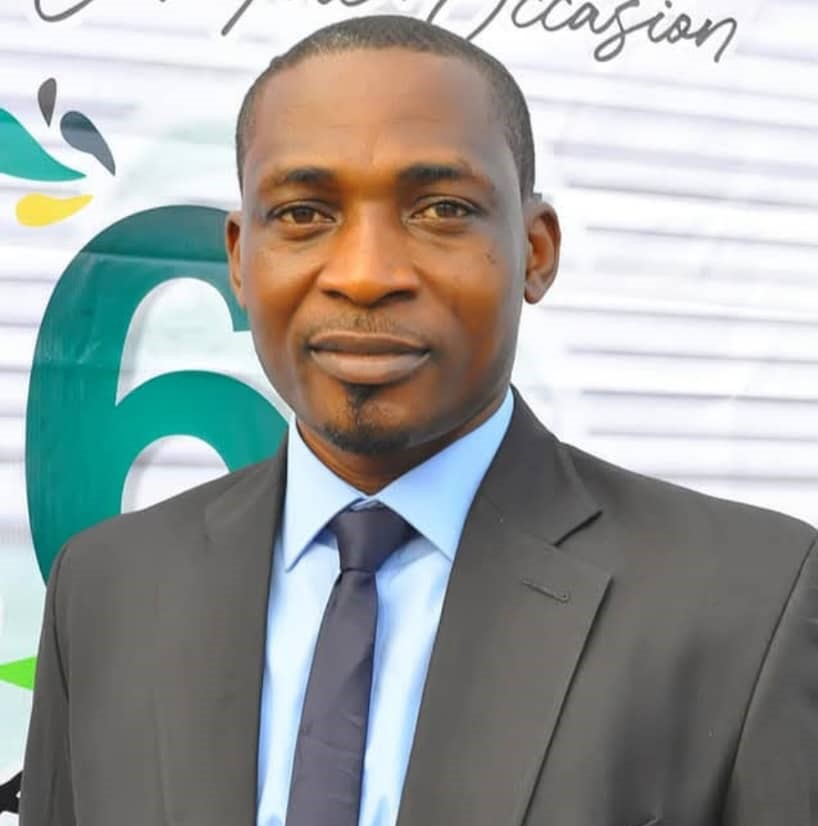
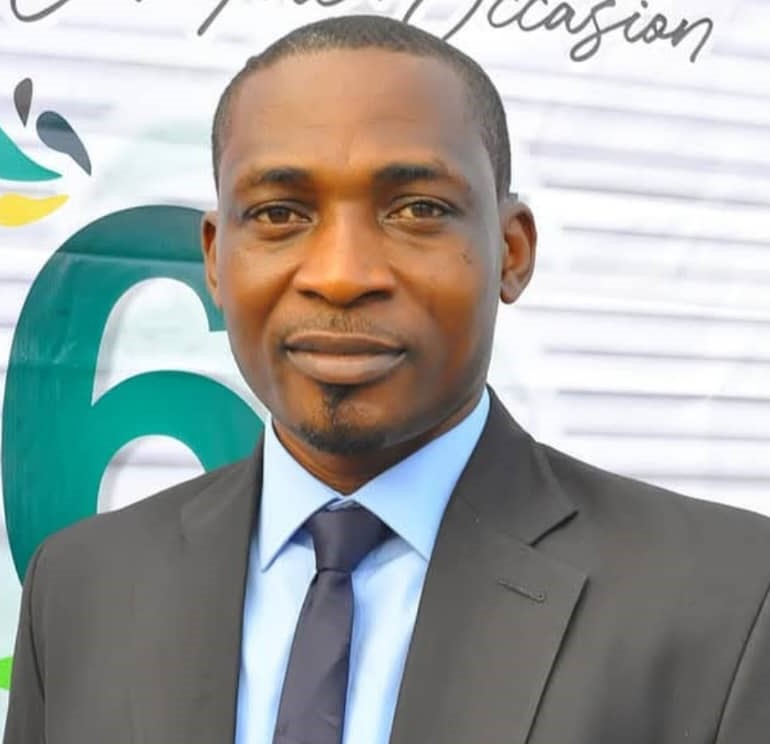
add corrections

diff --git a/Client/src/components/sections/BoardOfDirectorsSection.tsx b/Client/src/components/sections/BoardOfDirectorsSection.tsx
@@ -78,6 +78,17 @@ const BoardOfDirectorsSection: React.FC = () => {
         linkedin: '#',
         email: ''
       }
+    },
+    {
+      id: 6,
+      name: 'Project Team Member',
+      position: 'Project Team Member',
+      bio: '',
+      avatar: '/board/project-team-members.jpg', 
+      socialLinks: {
+        linkedin: '#',
+        email: ''
+      }
     }
   ];
 
@@ -118,7 +129,7 @@ const BoardOfDirectorsSection: React.FC = () => {
               onClick={() => setSelectedMember(selectedMember === member.id ? null : member.id)}
             >
               {/* Member Photo */}
-              <div className="relative h-80 bg-gradient-to-br from-gray-200 to-gray-300 overflow-hidden">
+              <div className="relative h-88 bg-gradient-to-br from-gray-200 to-gray-300 overflow-hidden">
                 <Image
                   src={member.avatar}
                   alt={member.name}
@@ -189,7 +200,7 @@ const BoardOfDirectorsSection: React.FC = () => {
                 </div>
               )}
 
-              {selectedMember === member.id && (
+              {selectedMember === member.id && (member.id === 1 || member.id === 2) && (
                 <div className='text-center mb-10 flex justify-center gap-2'>
                   <div className='flex justify-center items-center'>
                   <p>Email</p>

diff --git a/Client/src/components/sections/CustomerSupport.tsx b/Client/src/components/sections/CustomerSupport.tsx
@@ -20,7 +20,7 @@ const CustomerSupport: React.FC = () => {
         {/* Right Content */}
         <div className="w-full md:w-1/2 space-y-6">
           <h2 className="text-3xl md:text-4xl font-bold text-gray-900">
-            Customer Support
+            365 Days Customer Support
           </h2>
           <p className="text-gray-600 text-lg leading-relaxed">
             Our dedicated support team is always available to assist you.

diff --git a/Client/src/components/sections/AboutSection.tsx b/Client/src/components/sections/AboutSection.tsx
@@ -57,7 +57,7 @@ Our primary objectives is to help create an opportunities for our clients to sav
                       Our<span className='text-[#023e8a]'> Certified</span>
                     </div>
                     <div className="text-gray-600 text-lg md:text-xl font-medium">
-                      Engineers
+                      Team Members
                     </div>
                   </div>
                 </div>

diff --git a/Client/src/app/about/page.tsx b/Client/src/app/about/page.tsx
@@ -110,7 +110,7 @@ const AboutPage: React.FC = () => {
                   <div 
                     className="absolute inset-0 bg-cover bg-center"
                     style={{
-                      backgroundImage: `url('/about/about.jpg')`,
+                      backgroundImage: `url('/about/about-us.jpg')`,
                     }}
                   >
                     {/* Overlay for better text visibility */}

diff --git a/Client/src/components/sections/FeaturedPropertiesSection.tsx b/Client/src/components/sections/FeaturedPropertiesSection.tsx
@@ -48,7 +48,7 @@ const FeaturedPropertiesSection: React.FC = () => {
     id: '1',
     title: 'Modern luxurious Duplex',
     description: 'New luxurious 4 bedroom duplex.',
-    price: 200000000,
+    price: 300000000,
     address: {
       street: 'Freedom Way',
       city: 'Lekki Phase one',

diff --git a/Client/src/lib/data/mockProperties.ts b/Client/src/lib/data/mockProperties.ts
@@ -5,7 +5,7 @@ export const properties: Property[] = [
     id: '1',
     title: 'Modern luxurious Duplex',
     description: 'New luxurious 4 bedroom duplex.',
-    price: 200000000,
+    price: 300000000,
     address: {
       street: 'Freedom Way',
       city: 'Lekki Phase one',
